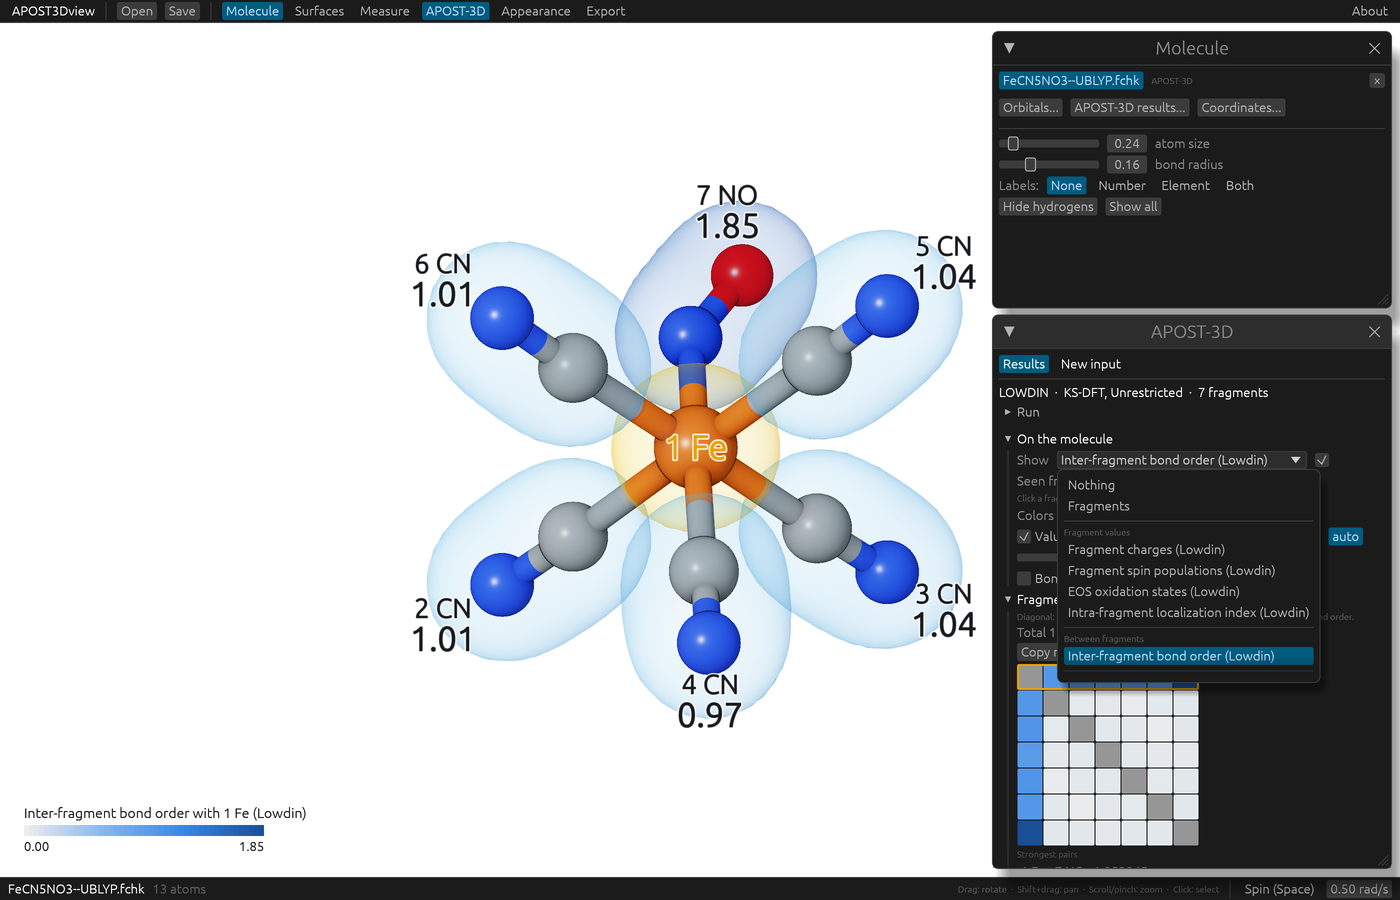
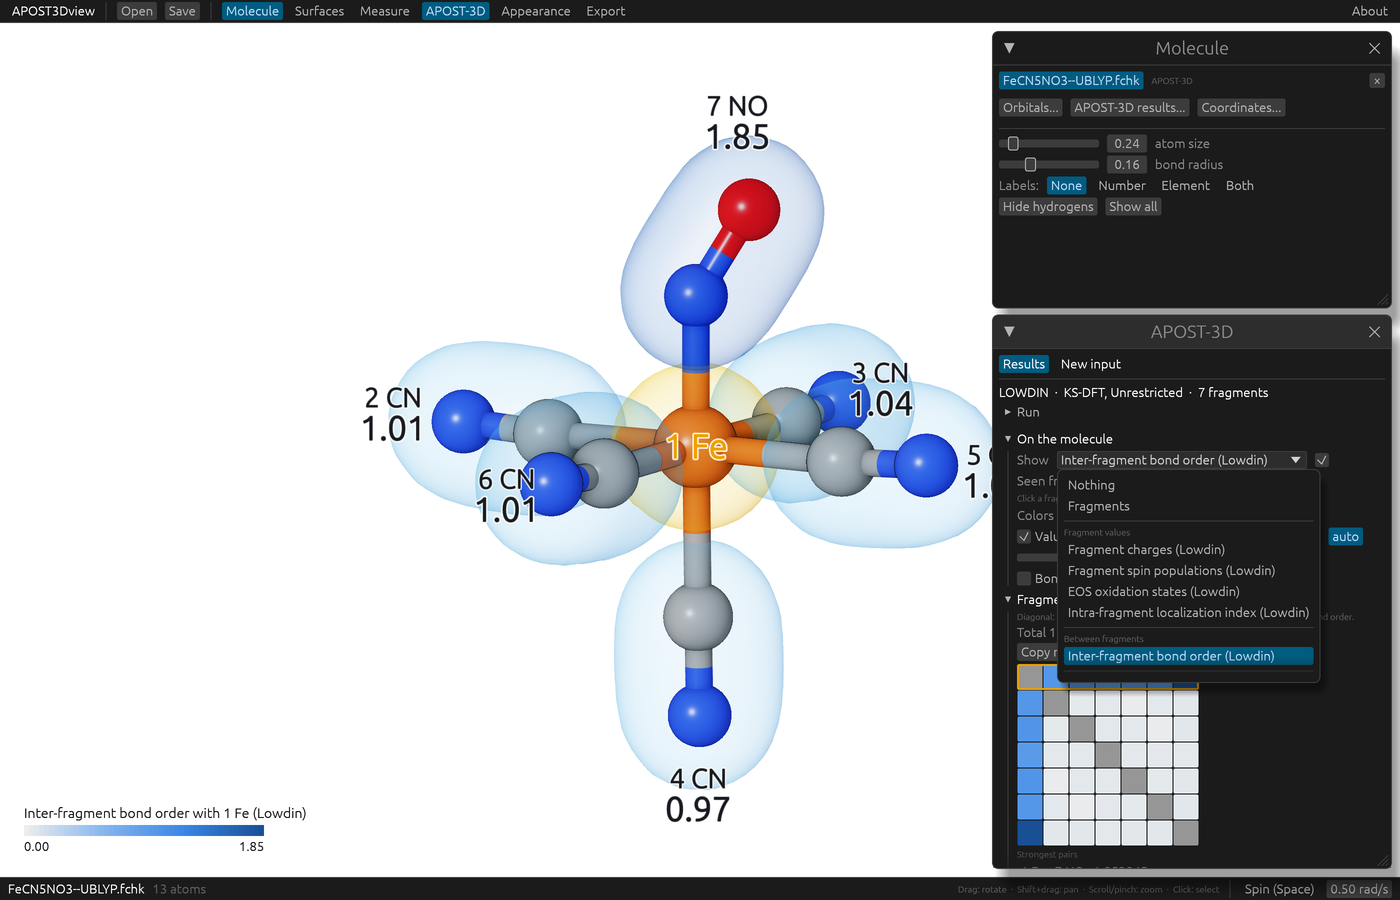
Guide: [Fe(CN)5NO]3- seen with the NO up; aligned Be and Mg complexes in Aligning related molecules
The FeCN5NO3 example's pictures (first start, tour, fragments, the input
generator) are oriented from its atoms: NO up from Fe, a CN to the right,
turned so the CN in front doesn't hide the Fe (App::set_view_orientation,
a hook for the guide). molecule.md shows the Be/Mg frontier natural
orbitals aligned on their C-M-C cores, made from the paper's case studies
when they are here (case-*.png pictures are kept otherwise).

Changed region(s): [[0.2457, 0.0933, 0.7064, 0.9333]]

diff --git a/crates/app/tests/guide.rs b/crates/app/tests/guide.rs
@@ -16,7 +16,7 @@ use egui_kittest::Harness;
 use egui_kittest::kittest::{By, Queryable};
 
 use apost3dview::App;
-use common::{app_with_scale, example, repo_dir, scratch_dir};
+use common::{app_with_scale, example, orientation, repo_dir, scratch_dir};
 
 /// The pictures are taken at twice the screen's resolution, so they stay
 /// sharp on high-density screens.
@@ -43,6 +43,26 @@ fn open_example(job: &str) -> Guide {
 /// Turns and zooms the view, for a better picture.
 fn frame(harness: &mut Guide, yaw: f32, pitch: f32, zoom: f32) {
     harness.state_mut().turn_view(yaw, pitch);
+    harness.state_mut().zoom_view(zoom);
+    harness.run_steps(2);
+}
+
+/// [Fe(CN)5NO]3- (the FeCN5NO3--UBLYP example) as octahedral complexes are
+/// usually drawn: the NO up from Fe, a CN to the right, seen from a little
+/// above and turned so the CN in front doesn't hide the Fe. From the atoms,
+/// whatever the file's orientation; then zoomed by `zoom`.
+fn frame_iron_nitrosyl(harness: &mut Guide, zoom: f32) {
+    let text = std::fs::read_to_string(example("FeCN5NO3--UBLYP").join("FeCN5NO3--UBLYP.apost.json")).unwrap();
+    let results = apost3dview_core::parse_apost_results(&text).unwrap();
+    let molecule = results.molecule.as_ref().unwrap();
+    let at = |i: usize| glam::Vec3::from_array(molecule.coordinates_bohr[i].map(|c| c as f32));
+    let of = |symbol: &str| (0..molecule.symbols.len()).filter(|&i| molecule.symbols[i] == symbol).collect::<Vec<_>>();
+    let (fe, o) = (at(of("Fe")[0]), at(of("O")[0]));
+    // The nitrosyl N: the N nearest the O.
+    let nitrosyl = of("N").into_iter().map(at).min_by(|a, b| a.distance(o).total_cmp(&b.distance(o))).unwrap();
+    let up = nitrosyl - fe;
+    let right = of("C").into_iter().map(|c| at(c) - fe).min_by(|a, b| a.normalize().dot(up.normalize()).abs().total_cmp(&b.normalize().dot(up.normalize()).abs())).unwrap();
+    harness.state_mut().set_view_orientation(orientation(up, right, 0.17, 0.55));
     harness.state_mut().zoom_view(zoom);
     harness.run_steps(2);
 }
@@ -160,6 +180,7 @@ fn first_start() {
 
     let mut guide = open_example("FeCN5NO3--UBLYP");
     assert_eq!(guide.state().toast_texts(), vec!["APOST-3D results loaded from FeCN5NO3--UBLYP.apost.json".to_string()]);
+    frame_iron_nitrosyl(&mut guide, 1.0);
     settle(&mut guide);
     for label in ["Open", "Save", "Molecule", "Surfaces", "Measure", "APOST-3D", "Appearance", "Export", "About", "Spin (Space)"] {
         sees(&guide, label);
@@ -172,7 +193,7 @@ fn first_start() {
 #[test]
 fn tour() {
     let mut guide = open_example("FeCN5NO3--UBLYP");
-    frame(&mut guide, 0.0, 0.45, 0.85);
+    frame_iron_nitrosyl(&mut guide, 0.85);
     choose(&mut guide, "Nothing", "Inter-fragment bond order (Lowdin)");
     assert_eq!(guide.state().legend_title().as_deref(), Some("Inter-fragment bond order with 1 Fe (Lowdin)"));
     settle(&mut guide);
@@ -286,7 +307,7 @@ fn orbitals_and_densities() {
 #[test]
 fn fragments_and_bond_orders() {
     let mut guide = open_example("FeCN5NO3--UBLYP");
-    frame(&mut guide, 0.0, 0.45, 0.85);
+    frame_iron_nitrosyl(&mut guide, 0.85);
     choose(&mut guide, "Nothing", "Fragments");
     settle(&mut guide);
     snap_figure(&mut guide, "results-fragments", 1200, 750);
@@ -415,7 +436,7 @@ fn making_an_input() {
     let fchk = dir.join("FeCN5NO3.fchk");
     std::fs::copy(example("FeCN5NO3--UBLYP").join("FeCN5NO3--UBLYP.fchk"), &fchk).unwrap();
     let mut guide = open(vec![fchk]);
-    frame(&mut guide, 0.0, 0.45, 1.0);
+    frame_iron_nitrosyl(&mut guide, 1.0);
     click(&mut guide, "APOST-3D input...");
     for label in ["Results", "New input", "Atoms in molecules", "Analyses", "Effective oxidation states", "Separate molecules", "Input file", "Copy input"] {
         sees(&guide, label);

diff --git a/crates/app/src/app.rs b/crates/app/src/app.rs
@@ -345,6 +345,14 @@ impl App {
         self.camera.orbit(yaw, pitch);
     }
 
+    /// Turns the view to `orientation` (a quaternion, x y z w: screen
+    /// right, up and toward the viewer are its X, Y and Z), keeping what
+    /// it looks at and from how far — for the guide's pictures, which set
+    /// an orientation computed from the atoms.
+    pub fn set_view_orientation(&mut self, orientation: [f32; 4]) {
+        self.camera.orientation = glam::Quat::from_array(orientation).normalize();
+    }
+
     /// Moves the camera closer (`factor` below 1) or farther, as zooming
     /// would — for tests and the guide's pictures.
     pub fn zoom_view(&mut self, factor: f32) {

diff --git a/docs/src/molecule.md b/docs/src/molecule.md
@@ -62,3 +62,7 @@ Related molecules from separate calculations (two metals with the same ligands, 
 3. Click **Align onto** followed by the first structure's name in the **Molecule** window.
 
 The structure is now seen exactly as the other one (**Keep the view when switching structures** is turned on): the matched atoms lie on the same spots, lit the same way, and stay so as you turn either one. The window says how well the atoms matched (the RMSD, in Å). Nothing in the files changes: orbitals, densities and APOST-3D values stay where they were computed; only the view is turned. **Undo alignment** goes back to the structure's own coordinates. Sessions keep the alignment.
+
+<img src="images/case-be-mg-aligned.png" alt="Be and Mg complexes aligned on their C-M-C cores, the frontier natural orbitals of each">
+
+Be(cAAC)₂ and Mg(cAAC)₂, two separate CASSCF calculations, with Mg aligned onto Be on the metal, the two carbene carbons and their nitrogens (RMSD 0.339 Å): both are seen in the same orientation and at the same scale, so their frontier natural orbitals (HONO, LUNO) compare directly. Made as a panel figure, see [Figures and videos](figures.md).
